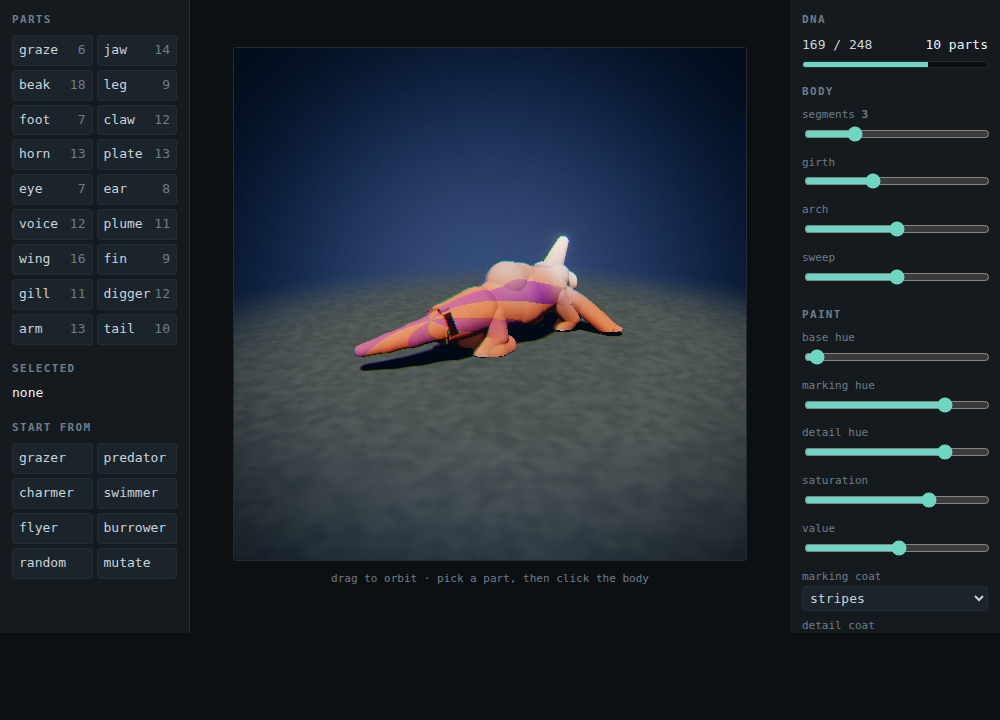
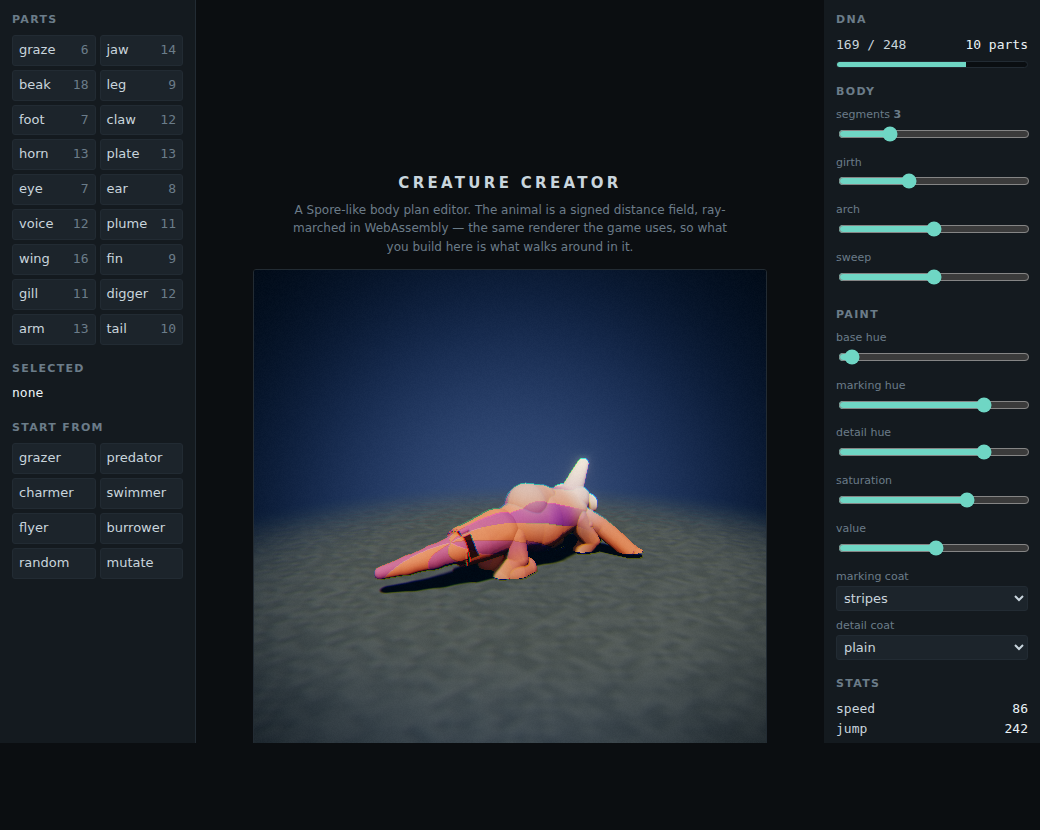
Package the editor as one file, and design the page it lives on
Two things on top of the browser build.

The page had the project's own instrument language already - teal on
near-black, hairlines, the dot-matrix register the renderers' HUDs use - so
this keeps it rather than inventing a second identity, and finishes it:
neutrals biased blue toward the accent instead of pure grey, tabular figures
wherever numbers are read as a column, wide-tracked labels, a visible focus
ring, a reduced-motion guard, and a single-column stack under 900px with the
viewport first. It stays deliberately single-theme: the renderer paints a
near-black cyclorama behind the animal, so a light mode would be fighting the
subject rather than serving a preference, and every colour is stated
explicitly so the page holds on either host ground.

build_standalone.py folds the module and the WebAssembly into one 103KB
document that runs from a file:// URL and makes no outbound request at all -
for handing to someone, or for hosting somewhere that blocks everything.
--fragment drops the document tags too, for hosts that supply their own. It
composes from the real files rather than keeping a second copy of the editor,
so there is one implementation and this is a packaging step; both outputs are
generated and ignored.

Claude-Session: https://claude.ai/code/session_01HD4j815no6j8QeaZzmN85E

diff --git a/wasm/editor.html b/wasm/editor.html
@@ -2,17 +2,37 @@
 <html lang="en">
 <head>
 <meta charset="utf-8">
-<title>cpore creature editor</title>
+<title>cpore Creature Creator</title>
 <style>
+  /* One visual world, on purpose. This is a dark studio - the renderer paints
+     a near-black cyclorama behind the animal - so a light theme would be
+     fighting the subject rather than serving a preference. Every colour is
+     stated explicitly so the page holds on either host ground. The neutrals
+     are biased blue toward the accent rather than being pure grey. */
   :root {
-    --bg: #0d1013; --panel: #151a1f; --line: #232c34;
-    --ink: #c8d4dc; --dim: #6d7d8a; --hot: #6fd6c4; --warn: #e2604f;
+    --bg: #0b0e11; --panel: #141a1f; --line: #222b33;
+    --ink: #c9d5dd; --dim: #6b7c89; --hot: #6fd6c4; --warn: #e2604f;
+    --ui: system-ui, -apple-system, "Segoe UI", Roboto, sans-serif;
+    --mono: ui-monospace, SFMono-Regular, Menlo, "DejaVu Sans Mono", monospace;
   }
   * { box-sizing: border-box; }
+  html { background: var(--bg); }
   body {
     margin: 0; background: var(--bg); color: var(--ink);
-    font: 13px/1.45 ui-monospace, SFMono-Regular, Menlo, monospace;
-    display: grid; grid-template-columns: 190px 1fr 210px; height: 100vh;
+    font: 13px/1.45 var(--ui);
+    display: grid; grid-template-columns: 196px 1fr 216px;
+    min-height: 100vh;
+  }
+  /* Numbers that are read as a column read better as a column. */
+  .row span:last-child, #dna, #nparts, button .c, #stats {
+    font-family: var(--mono); font-variant-numeric: tabular-nums;
+  }
+  :focus-visible { outline: 2px solid var(--hot); outline-offset: 2px; }
+  @media (prefers-reduced-motion: reduce) { * { transition: none !important; } }
+  @media (max-width: 900px) {
+    body { grid-template-columns: 1fr; }
+    #stage { order: -1; padding: 14px 0; }
+    .panel:first-child, .panel:last-child { border: 0; border-top: 1px solid var(--line); }
   }
   .panel { background: var(--panel); overflow-y: auto; padding: 12px; }
   .panel:first-child { border-right: 1px solid var(--line); }
@@ -23,14 +43,16 @@
   #stage { display: flex; flex-direction: column; align-items: center;
            justify-content: center; gap: 10px; position: relative; }
   canvas { background: #05080a; border: 1px solid var(--line); border-radius: 3px;
-           cursor: crosshair; touch-action: none; image-rendering: auto; }
+           cursor: crosshair; touch-action: none; image-rendering: auto;
+           max-width: 100%; height: auto; }
   .grid { display: grid; grid-template-columns: 1fr 1fr; gap: 4px; }
   button {
     font: inherit; color: var(--ink); background: #1c242b;
     border: 1px solid var(--line); border-radius: 3px; padding: 5px 6px;
     cursor: pointer; text-align: left; white-space: nowrap; overflow: hidden;
   }
-  button:hover { border-color: var(--hot); }
+  button { transition: border-color .12s ease, background .12s ease; }
+  button:hover:not(:disabled) { border-color: var(--hot); }
   button.on { background: #1d3b39; border-color: var(--hot); color: #dffaf4; }
   button:disabled { opacity: .32; cursor: not-allowed; border-color: var(--line); }
   button .c { float: right; color: var(--dim); }
@@ -45,7 +67,12 @@
   input[type=range] { width: 100%; accent-color: var(--hot); }
   select { width: 100%; font: inherit; background: #1c242b; color: var(--ink);
            border: 1px solid var(--line); border-radius: 3px; padding: 3px; }
-  #hint { color: var(--dim); font-size: 11px; height: 16px; }
+  header { max-width: 54ch; text-align: center; margin-bottom: 2px; }
+  h1 { font-size: 15px; letter-spacing: .22em; text-transform: uppercase;
+       font-weight: 600; margin: 0 0 6px; color: var(--ink); text-wrap: balance; }
+  header p { margin: 0; color: var(--dim); font-size: 12px; line-height: 1.55; }
+  #hint { color: var(--dim); font-size: 11px; height: 16px;
+          font-family: var(--mono); }
   #hint b { color: var(--hot); font-weight: 400; }
   #boot { position: absolute; inset: 0; display: grid; place-items: center;
           background: var(--bg); color: var(--dim); }
@@ -65,9 +92,16 @@
 </div>
 
 <div id="stage">
-  <canvas id="view" width="512" height="512"></canvas>
+  <header>
+    <h1>Creature Creator</h1>
+    <p>A Spore-like body plan editor. The animal is a signed distance field,
+       ray-marched in WebAssembly &mdash; the same renderer the game uses, so
+       what you build here is what walks around in it.</p>
+  </header>
+  <canvas id="view" width="512" height="512" tabindex="0"
+          aria-label="creature viewport"></canvas>
   <div id="hint">drag to orbit &middot; pick a part, then click the body</div>
-  <div id="boot">loading cpore.wasm&hellip;</div>
+  <div id="boot">loading&hellip;</div>
 </div>
 
 <div class="panel">

diff --git a/wasm/build_standalone.py b/wasm/build_standalone.py
@@ -1,0 +1,88 @@
+#!/usr/bin/env python3
+"""Fold the editor into one file that needs no server.
+
+editor.html is ES modules fetching a .wasm, which is the right shape for
+development and the wrong shape for handing to someone: it needs an origin, so
+opening it from disk fails and there is nothing to send but a directory. This
+inlines the module and base64s the WebAssembly into a single document that
+runs from a file:// URL, an email attachment or a hosted page with a strict
+content policy that blocks every outbound request.
+
+It composes from the real files rather than keeping a second copy of the
+editor, so there is one implementation and this is a packaging step.
+
+    python3 wasm/build_standalone.py [out.html]
+    python3 wasm/build_standalone.py --fragment [out.html]
+
+--fragment strips the document tags as well, for hosts that supply their own
+doctype, head and body and expect only the content.
+"""
+
+import base64
+import os
+import re
+import sys
+
+HERE = os.path.dirname(os.path.abspath(__file__))
+
+
+def main(out_path, fragment=False):
+    with open(os.path.join(HERE, "cpore.wasm"), "rb") as f:
+        wasm_b64 = base64.b64encode(f.read()).decode()
+
+    with open(os.path.join(HERE, "cpore-edit.js")) as f:
+        module = f.read()
+
+    with open(os.path.join(HERE, "editor.html")) as f:
+        page = f.read()
+
+    # The module becomes plain script: no exports, no default.
+    module = re.sub(r"^export default .*$", "", module, flags=re.M)
+    module = module.replace("export const ", "const ").replace("export class ", "class ")
+
+    # And the page stops importing it.
+    page = re.sub(
+        r"import \{[^}]*\}\s*\n?\s*from '\./cpore-edit\.js';",
+        "/* cpore-edit.js, inlined below */",
+        page,
+    )
+
+    boot = (
+        "const WASM_B64 = '%s';\n"
+        "const _bin = Uint8Array.from(atob(WASM_B64), c => c.charCodeAt(0));\n" % wasm_b64
+    )
+    page = page.replace(
+        "await CreatureEditor.create('./cpore.wasm',",
+        "await CreatureEditor.create(_bin.buffer,",
+    )
+
+    page = page.replace(
+        "<script type=\"module\">",
+        "<script type=\"module\">\n" + boot + "\n" + module + "\n",
+        1,
+    )
+
+    if fragment:
+        # Keep the title, the style and the markup; drop the document tags the
+        # host supplies. `<header>` contains the substring "<head", so this
+        # matches tags rather than text.
+        title = re.search(r"<title>.*?</title>", page, re.S).group(0)
+        style = re.search(r"<style>.*?</style>", page, re.S).group(0)
+        inner = re.search(r"<body>(.*?)</body>", page, re.S).group(1)
+        page = title + "\n" + style + "\n" + inner.strip() + "\n"
+        for tag in ("html", "head", "body"):
+            assert not re.search(r"</?%s[\s>]" % tag, page, re.I), tag
+    assert not re.search(r"https?://", page), "must make no outbound request"
+
+    with open(out_path, "w") as f:
+        f.write(page)
+    kb = os.path.getsize(out_path) / 1024.0
+    print("wrote %s  (%.0f KB, no external requests)" % (out_path, kb))
+
+
+if __name__ == "__main__":
+    args = sys.argv[1:]
+    frag = "--fragment" in args
+    args = [a for a in args if a != "--fragment"]
+    default = "editor-fragment.html" if frag else "editor-standalone.html"
+    main(args[0] if args else os.path.join(HERE, default), frag)

diff --git a/README.md b/README.md
@@ -1076,6 +1076,11 @@ them is checked too — an API that works behind a UI that never calls it is the
 failure a screenshot cannot show. It prints its results onto the page, which is
 how the one above was verified.
 
+`python3 wasm/build_standalone.py` folds the module and the WebAssembly into a
+single 103KB document that runs from a `file://` URL with no server and makes
+no outbound request — for handing to someone, or for hosting anywhere with a
+content policy that blocks everything.
+
 ## Visual styles
 
 Eight, and `drop` and `vista` are not among the other six. Six are a pixel-art pipeline and
